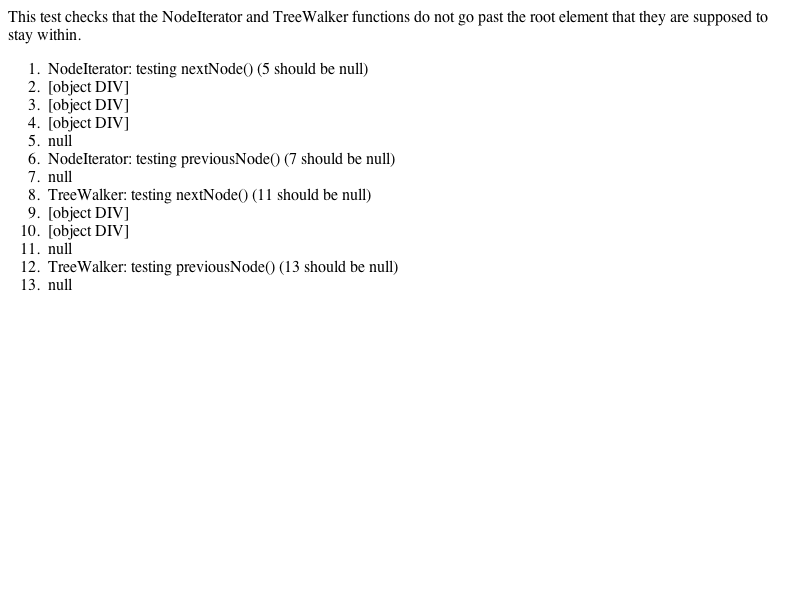
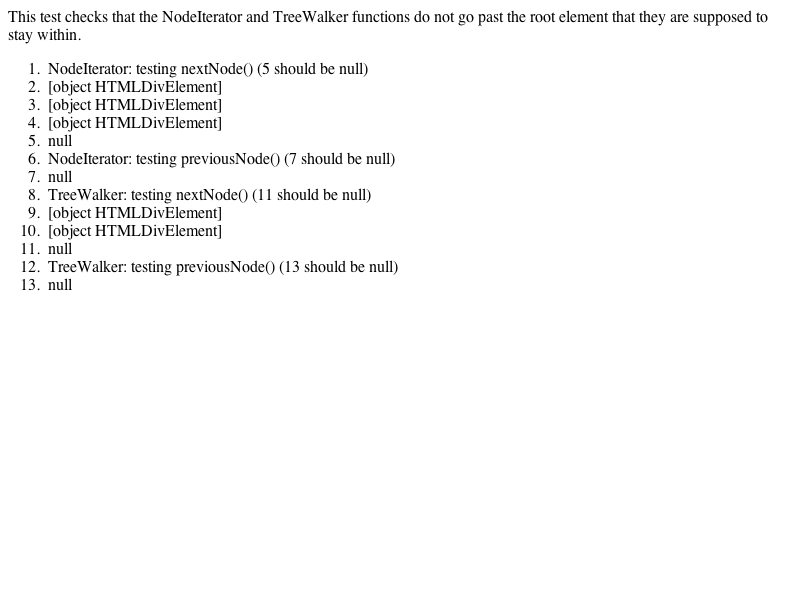
2006-11-06  Mark Rowe  <bdash@webkit.org>
Reviewed by Maciej.

        http://bugs.webkit.org/show_bug.cgi?id=11526
        Bug 11526: REGRESSION(r17610): Layout test failure in svg/custom/create-metadata-element.svg

        Update DOMNode::toString to always use className rather than preferring nodeName.

        * bindings/js/kjs_dom.cpp:
        (KJS::DOMNode::toString): Match the format returned by valueOf.
2006-11-06  Mark Rowe  <bdash@webkit.org>

        Reviewed by Maciej.

        http://bugs.webkit.org/show_bug.cgi?id=11526
        Bug 11526: REGRESSION(r17610): Layout test failure in svg/custom/create-metadata-element.svg

        Updated test results for change from nodeName to className in DOMNode::toString.

        * fast/dom/HTMLMetaElement/meta-attributes-expected.txt:
        * fast/dom/prototype-chain-expected.txt:
        * fast/dom/replace-first-child-expected.txt:
        * fast/events/mouseclick-target-and-positioning-expected.txt:
        * fast/forms/input-appearance-preventDefault-expected.checksum:
        * fast/forms/input-appearance-preventDefault-expected.png:
        * fast/forms/input-appearance-preventDefault-expected.txt:
        * fast/loader/loadInProgress-expected.txt:
        * fast/tokenizer/external-script-document-write-expected.checksum:
        * fast/tokenizer/external-script-document-write-expected.png:
        * fast/tokenizer/external-script-document-write-expected.txt:
        * traversal/stay-within-root-expected.checksum:
[…]

Changed region(s): [[0.125, 0.12, 0.2812, 0.21], [0.125, 0.33, 0.2812, 0.39]]

diff --git a/WebCore/bindings/js/kjs_dom.cpp b/WebCore/bindings/js/kjs_dom.cpp
@@ -274,11 +274,11 @@ JSValue* DOMNode::toPrimitive(ExecState* exec, JSType) const
   return jsString(toString(exec));
 }
 
-UString DOMNode::toString(ExecState* ) const
+UString DOMNode::toString(ExecState*) const
 {
-  if (!m_impl)
-    return "null";
-  return "[object " + (m_impl->isElementNode() ? UString(m_impl->nodeName()) : className()) + "]";
+    if (!m_impl)
+        return "null";
+    return "[object " + className() + "]";
 }
 
 JSValue* DOMNodeProtoFunc::callAsFunction(ExecState* exec, JSObject* thisObj, const List &args)
